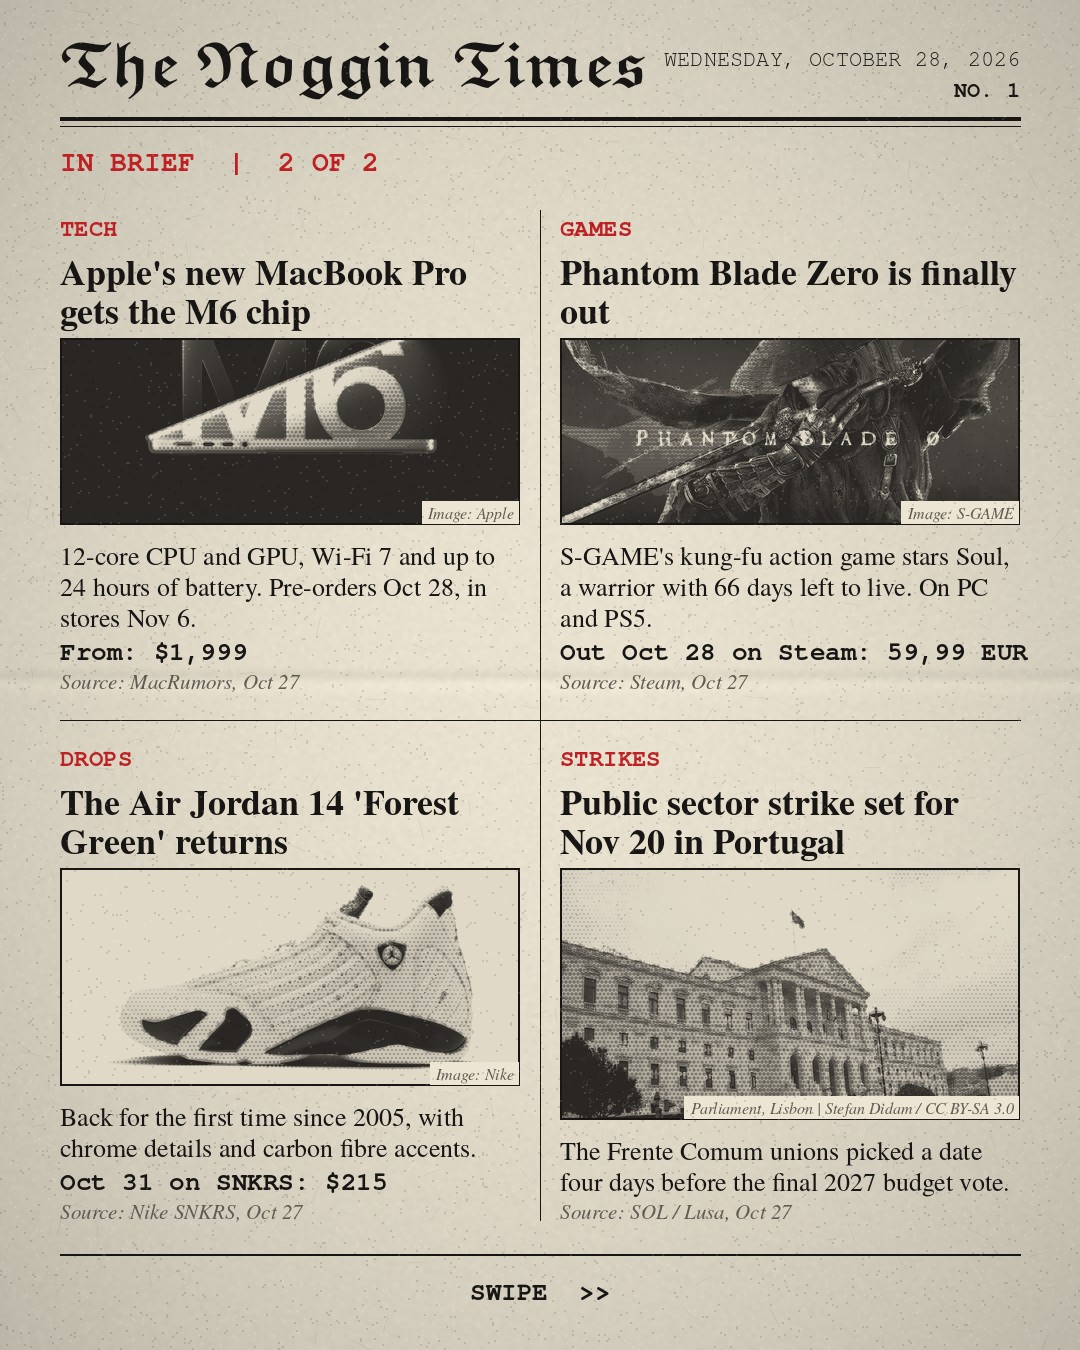
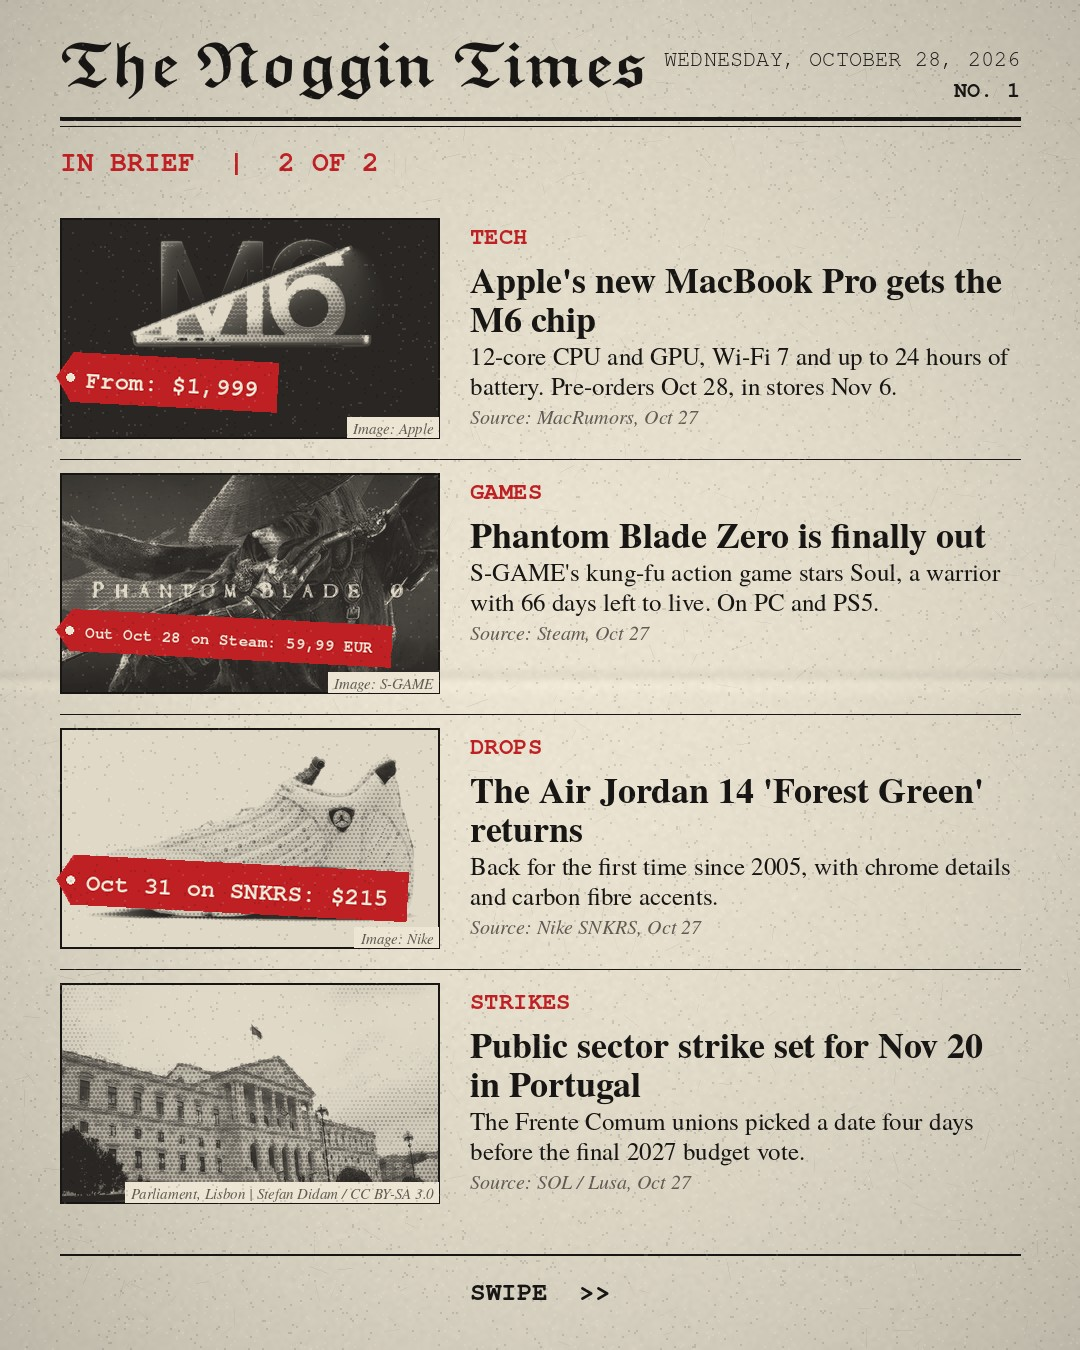
Carousel: second In Brief slide gets its own row layout with price tags
Claude-Session: https://claude.ai/code/session_013oiV8dZBQwT9HmJc63GFLd

diff --git a/engine/carousel.py b/engine/carousel.py
@@ -157,18 +157,70 @@ def brief_cell(pg, b, x, y, w, h):
     if b.get("price"): d.text((x, y + 2), b["price"], font=F("type", 26), fill=INK); y += 34
     d.text((x, y + 2), f"Source: {b['source']['outlet']}, {b['source']['date']}", font=F("ital", 21), fill=GREY)
 
+def _trim_white(src, w, ph):
+    g = ImageOps.grayscale(src); bgv = g.getpixel((2, 2))
+    if bgv > 225:
+        bb = g.point(lambda v: 255 if v < bgv - 18 else 0).getbbox()
+        if bb:
+            pw_, ph_ = bb[2] - bb[0], bb[3] - bb[1]
+            src = src.crop((max(0, bb[0] - pw_//10), max(0, bb[1] - ph_//10), min(src.width, bb[2] + pw_//10), min(src.height, bb[3] + ph_//10)))
+            c = Image.new("RGB", (max(src.width, int(src.height*w/ph)), max(src.height, int(src.width*ph/w))), (bgv,)*3)
+            c.paste(src, ((c.width - src.width)//2, (c.height - src.height)//2)); src = c
+    return src
+
+def price_tag(txt, sz=30):
+    f = F("type", sz); tw = MEAS.textlength(txt, font=f)
+    im = Image.new("RGBA", (int(tw + 50), sz + 26), (0, 0, 0, 0)); d = ImageDraw.Draw(im)
+    d.polygon([(0, im.height/2), (16, 0), (im.width, 0), (im.width, im.height), (16, im.height)], fill=RED)
+    d.ellipse((10, im.height/2 - 4, 18, im.height/2 + 4), fill=PAPER)
+    d.text((30, im.height/2), txt, font=f, fill=PAPER, anchor="lm")
+    return im.rotate(-3, expand=True, resample=Image.BICUBIC)
+
+def brief_rows_slide(h, chunk, issue, date_txt, label):
+    """Second In Brief style: one row per item - photo left, text right, red price tag."""
+    pg = paper(h, seed=61); y = mini_masthead(pg, issue, date_txt, label); d = ImageDraw.Draw(pg)
+    top = y + 20; bottom = h - 120; rh = (bottom - top)//len(chunk); pw = 380
+    for k, b in enumerate(chunk):
+        ry = top + k*rh
+        if k: d.line((M, ry - 6, 1080 - M, ry - 6), fill=INK, width=1)
+        ph = rh - 34
+        if b.get("photo"):
+            src = _trim_white(load_photo(b["photo"]), pw, ph)
+            pic = halftone(src, (pw, ph), cell=4); pg.alpha_composite(pic, (M, ry + 8)); d.rectangle((M, ry + 8, M + pw - 1, ry + 8 + ph - 1), outline=INK, width=2)
+            if b.get("credit"):
+                cf = F("ital", 15); tw = MEAS.textlength(b["credit"], font=cf)
+                d.rectangle((M + pw - tw - 12, ry + 8 + ph - 22, M + pw - 2, ry + 8 + ph - 2), fill=PAPER); d.text((M + pw - 6, ry + 8 + ph - 5), b["credit"], font=cf, fill=GREY, anchor="rs")
+        tx = M + pw + 30; tw_ = 1080 - M - tx; ty = ry + 8
+        d.text((tx, ty), b["cat"].upper(), font=F("type", 24), fill=RED); ty += 34
+        f, ls, lh = fit_lines(b["title"], "head", tw_, 110 if h < 1500 else 130, 36 if h < 1500 else 42, lh=1.1, minsz=26)
+        for l in ls: d.text((tx, ty), l, font=f, fill=INK); ty += lh
+        ty += 8; tf = F("body", 25 if h < 1500 else 29)
+        for l in wrap(b["text"], tf, tw_)[:4 if h < 1500 else 6]: d.text((tx, ty), l, font=tf, fill=INK); ty += int(tf.size*1.2)
+        d.text((tx, ty + 4), f"Source: {b['source']['outlet']}, {b['source']['date']}", font=F("ital", 20), fill=GREY); ty += 34
+        if b.get("price"):
+            tag = price_tag(b["price"], 24 if h < 1500 else 30)
+            if ty + tag.height < ry + rh - 4: pg.alpha_composite(tag, (tx - 4, ty))
+            else:   # no room under the text: pin it on the photo, never wider than the photo
+                sz = 24
+                while tag.width > pw - 10 and sz > 14: sz -= 2; tag = price_tag(b["price"], sz)
+                pg.alpha_composite(tag, (M - 6, ry + 8 + ph - tag.height - 26))
+    foot(pg, h, "SWIPE  >>")
+    return grain(pg, h, 50)
+
 def brief_slides(h, briefs, issue, date_txt, start_k):
-    out = []
-    for p in range(0, len(briefs), 4):
-        chunk = briefs[p:p + 4]
-        pg = paper(h, seed=40 + p); y = mini_masthead(pg, issue, date_txt, f"IN BRIEF  |  {p//4 + 1} OF {math.ceil(len(briefs)/4)}")
+    out = []; chunks = [briefs[p:p + 4] for p in range(0, len(briefs), 4)]
+    for ci, chunk in enumerate(chunks):
+        label = f"IN BRIEF  |  {ci + 1} OF {len(chunks)}"
+        if ci % 2 == 1:
+            out.append(brief_rows_slide(h, chunk, issue, date_txt, label)); continue
+        pg = paper(h, seed=40 + ci); y = mini_masthead(pg, issue, date_txt, label)
         d = ImageDraw.Draw(pg); top = y + 20; bottom = h - 120
         cw = (CW - 40)//2; chh = (bottom - top - 40)//2
         d.line((M + cw + 20, top, M + cw + 20, bottom - 10), fill=INK, width=1); d.line((M, top + chh + 20, 1080 - M, top + chh + 20), fill=INK, width=1)
         for k, b in enumerate(chunk):
             brief_cell(pg, b, M + (k % 2)*(cw + 40), top + (k//2)*(chh + 40), cw, chh)
         foot(pg, h, "SWIPE  >>")
-        out.append(grain(pg, h, 30 + p))
+        out.append(grain(pg, h, 30 + ci))
     return out
 
 def outro_slide(h, n, issue, date_txt):
